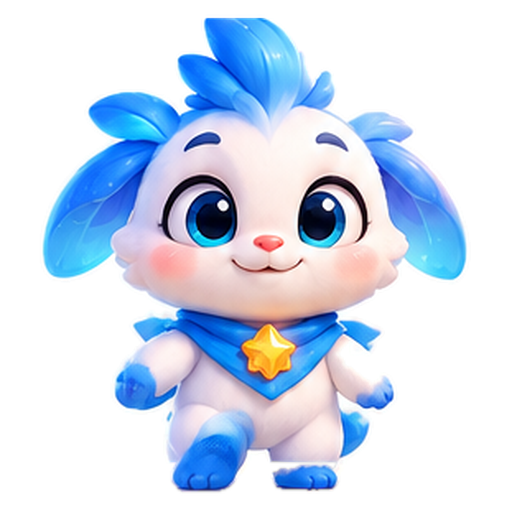
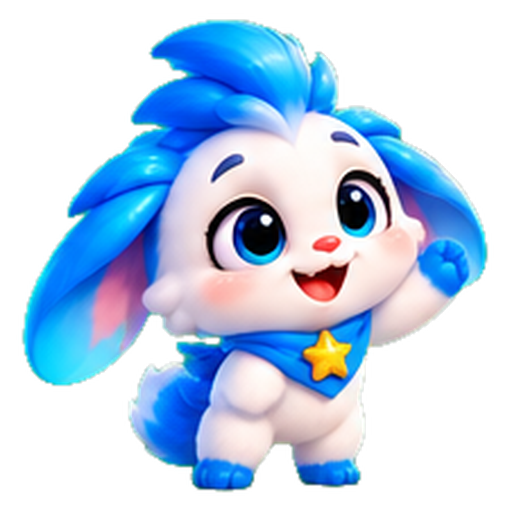
Drop Quest: Bobo poses from the green-screen sheet
Fourteen clean poses keyed from the green sheet: idle, cheer, scared, cry,
wave, thumbs, think, worried, sleep, heart, crystal, gem, star, run, plus
head tokens. Each game moment picks its pose: board mascot (idle/cheer/
scared/cry), menu (wave, thumbs when tapped), result screen (cheer or star,
cry on loss), dialogs (sleep without lives, heart for the gift, star for
missions), tutorial (think), story pages (run, worried, crystal, wave).

Claude-Session: https://claude.ai/code/session_01P9PJwx89JgEmzy7Z8UgfRU

diff --git a/Assets/SugarDrop/Scripts/Game/SugarDropGame.cs b/Assets/SugarDrop/Scripts/Game/SugarDropGame.cs
@@ -346,6 +346,7 @@ namespace SugarDrop
             string message = SugarLoc.F("Stele: {0}/30", stars) + "  ·  " + SugarLoc.F("+{0} monede", coins)
                 + "\n" + SugarLoc.T("+1 rachetă la start") + (boosters ? "  ·  " + SugarLoc.T("+1 la fiecare ajutor") : "")
                 + "\n" + SugarLoc.F("Urmează: {0}", SugarLoc.T(ChapterTheme.For(chapter + 1).Name));
+            dialog.NextBobo = BoboPose.Star;
             dialog.Show(SugarLoc.F("Capitolul {0} terminat!", chapter + 1), message,
                 new DialogButton(SugarLoc.T("SUPER!"), positive, null));
         }
@@ -378,6 +379,7 @@ namespace SugarDrop
             UiThemeColors(out Color positive, out Color ad, out Color panel);
             if (!SugarDaily.GiftAvailable)
             {
+                dialog.NextBobo = BoboPose.Love;
                 dialog.Show(SugarLoc.T("Cadou zilnic"), null,
                     () => SugarLoc.F("Următorul cadou în {0}", Clock(DailyRules.UntilTomorrow)),
                     new DialogButton(SugarLoc.T("ÎNCHIDE"), panel, null));
@@ -387,6 +389,7 @@ namespace SugarDrop
             DailyGift gift = DailyRules.GiftFor(day);
             var buttons = new List<DialogButton> { new(SugarLoc.T("REVENDICĂ"), positive, () => ClaimGift(1)) };
             if (gift.Coins > 0) buttons.Add(new DialogButton(SugarLoc.T("x2 MONEDE (reclamă)"), ad, () => SugarUi.RewardedAd("daily_gift", () => ClaimGift(2))));
+            dialog.NextBobo = BoboPose.Love;
             dialog.Show(SugarLoc.T("Cadou zilnic"), SugarLoc.F("Ziua {0} din 7", day) + "\n" + GiftText(gift, 1), buttons.ToArray());
         }
 
@@ -399,6 +402,7 @@ namespace SugarDrop
             if (Audio != null) Audio.Play(SugarSound.Win);
             if (Vfx != null) Vfx.Confetti(Vector3.zero, 9.2f, 10.5f);
             UiThemeColors(out Color positive, out Color ad, out Color panel);
+            dialog.NextBobo = BoboPose.Love;
             dialog.Show(SugarLoc.T("Cadou zilnic"), GiftText(gift, multiplier), new DialogButton(SugarLoc.T("SUPER!"), positive, null));
         }
 
@@ -435,6 +439,7 @@ namespace SugarDrop
                     buttons.Add(new DialogButton(text + "\n" + SugarDaily.Progress(i) + "/" + mission.Target + "  ·  +" + mission.Reward, panel, null, false));
             }
             buttons.Add(new DialogButton(SugarLoc.T("ÎNCHIDE"), QuarryEmpire.UiRoot.Theme.AccentColor, null));
+            dialog.NextBobo = BoboPose.Star;
             dialog.Show(SugarLoc.T("Misiuni zilnice"), null,
                 () => SugarLoc.F("Toate trei: +{0} bonus", DailyRules.AllMissionsBonus) + "\n" + SugarLoc.F("Misiuni noi în {0}", Clock(DailyRules.UntilTomorrow)),
                 buttons.ToArray());
@@ -493,6 +498,7 @@ namespace SugarDrop
         private void AskRating()
         {
             UiThemeColors(out Color positive, out Color ad, out Color panel);
+            dialog.NextBobo = BoboPose.Wave;
             dialog.Show(SugarLoc.T("Îți place Drop Quest?"), SugarLoc.T("Bobo e curios ce părere ai!"),
                 new DialogButton(SugarLoc.T("DA, ÎMI PLACE!"), positive, AskReview),
                 new DialogButton(SugarLoc.T("NU PREA"), panel, () => SetRateState(2)));
@@ -569,6 +575,7 @@ namespace SugarDrop
         private void OnAdUnavailable()
         {
             UiThemeColors(out Color positive, out Color ad, out Color panel);
+            dialog.NextBobo = BoboPose.Worried;
             dialog.Show(SugarLoc.T("Nicio reclamă acum"), SugarLoc.T("Nu e nicio reclamă disponibilă. Verifică internetul și încearcă din nou puțin mai târziu."),
                 new DialogButton(SugarLoc.T("ÎNCHIDE"), panel, null));
         }
@@ -835,6 +842,7 @@ namespace SugarDrop
             string points = SugarSave.TotalScore.ToString("#,0", System.Globalization.CultureInfo.InvariantCulture).Replace(',', '.');
             string message = SugarLoc.F("Nivelul {0}  ·  {1} stele", Mathf.Max(1, Data.level), stars) + "\n"
                 + SugarLoc.F("{0} puncte  ·  {1} capitole", points, Data.chaptersRewarded);
+            dialog.NextBobo = BoboPose.Wave;
             dialog.Show(string.IsNullOrEmpty(Data.nickname) ? SugarLoc.T("Profil") : Data.nickname, message,
                 new DialogButton(SugarLoc.T("SCHIMBĂ NICKNAME-UL"), panel, () => welcome.Show(false, SetNickname)),
                 new DialogButton(SugarLoc.T("Garderoba lui Bobo"), Palette.Tile(2), ShowWardrobe),
@@ -845,6 +853,7 @@ namespace SugarDrop
         private void ShowNoLives()
         {
             UiThemeColors(out Color positive, out Color ad, out Color panel);
+            dialog.NextBobo = BoboPose.Sleep;
             dialog.Show(SugarLoc.T("Fără vieți!"), null, () =>
                 {
                     SugarSave.UpdateLives();
@@ -1648,6 +1657,7 @@ namespace SugarDrop
                     if (Data.coins < boosterPrice)
                     {
                         if (Audio != null) Audio.Play(SugarSound.Invalid);
+                        dialog.NextBobo = BoboPose.Worried;
                         dialog.Show(SugarLoc.T("Nu ai destule monede"), null,
                             new DialogButton(SugarLoc.T("GRATIS (reclamă)"), ad, () => SugarUi.RewardedAd("booster", () => Grant(booster))),
                             new DialogButton(SugarLoc.T("ÎNCHIDE"), panel, null));

diff --git a/Assets/SugarDrop/Scripts/Visual/BoboArt.cs b/Assets/SugarDrop/Scripts/Visual/BoboArt.cs
@@ -4,26 +4,53 @@ using UnityEngine.UI;
 
 namespace SugarDrop
 {
+    /// <summary>Ipostazele lui Bobo pictat (câte o imagine pentru fiecare moment din joc).</summary>
+    public enum BoboPose
+    {
+        Idle, Happy, Scared, Sad, Wave, Thumbs, Think, Worried, Sleep, Love, Crystal, Gem, Star, Run,
+    }
+
     /// <summary>
-    /// Bobo pictat (Resources/Art/bobo.png, bobohappy.png, boboscared.png): blănosul alb cu urechi-frunze albastre
-    /// și eșarfă cu stea. Imaginile sunt pătrate, cu personajul centrat și picioarele aproape de marginea de jos.
-    /// Când lipsesc, jocul îl desenează pe Bobo din cod, ca înainte.
+    /// Bobo pictat (Resources/Art/bobo*.png): blănosul alb cu urechi-frunze albastre și eșarfă cu stea. Imaginile
+    /// sunt pătrate, cu personajul centrat și picioarele aproape de marginea de jos. O ipostază care lipsește
+    /// folosește imaginea de bază (bobo.png); fără ea, jocul îl desenează pe Bobo din cod, ca înainte.
     /// </summary>
     public static class BoboArt
     {
         public static Sprite Idle => ArtLibrary.Find("bobo");
-        public static Sprite Happy => ArtLibrary.Find("bobohappy") ?? Idle;
-        public static Sprite Scared => ArtLibrary.Find("boboscared") ?? Idle;
+        public static Sprite Happy => Get(BoboPose.Happy);
+        public static Sprite Scared => Get(BoboPose.Scared);
         public static bool Available => Idle != null;
+
+        /// <summary>Numele imaginii fiecărei ipostaze (în Resources/Art).</summary>
+        public static string Key(BoboPose pose) => pose switch
+        {
+            BoboPose.Happy => "bobohappy",
+            BoboPose.Scared => "boboscared",
+            BoboPose.Sad => "bobosad",
+            BoboPose.Wave => "bobowave",
+            BoboPose.Thumbs => "bobothumbs",
+            BoboPose.Think => "bobothink",
+            BoboPose.Worried => "boboworried",
+            BoboPose.Sleep => "bobosleep",
+            BoboPose.Love => "bobolove",
+            BoboPose.Crystal => "bobocrystal",
+            BoboPose.Gem => "bobogem",
+            BoboPose.Star => "bobostar",
+            BoboPose.Run => "boborun",
+            _ => "bobo",
+        };
+
+        public static Sprite Get(BoboPose pose) => ArtLibrary.Find(Key(pose)) ?? Idle;
 
         /// <summary>Partea din imagine (de jos în sus) unde stau capul (pălăriile) și ochii (ochelarii).</summary>
         public const float HeadTop = 0.84f;
         public const float EyeLine = 0.55f;
 
         /// <summary>Bobo într-un dreptunghi de interfață: o singură imagine, picioarele jos, pe mijloc.</summary>
-        public static Image AddTo(RectTransform parent, float size, Vector2 bottomCenter)
+        public static Image AddTo(RectTransform parent, float size, Vector2 bottomCenter, BoboPose pose = BoboPose.Idle)
         {
-            Image image = UiFactory.CreateImage("BoboArt", parent, Idle, Color.white);
+            Image image = UiFactory.CreateImage("BoboArt", parent, Get(pose), Color.white);
             image.preserveAspect = true;
             image.raycastTarget = false;
             UiFactory.Place(image.rectTransform, new Vector2(0.5f, 0f), new Vector2(0.5f, 0f), bottomCenter, new Vector2(size, size));

diff --git a/Assets/SugarDrop/Scripts/UI/StoryPanel.cs b/Assets/SugarDrop/Scripts/UI/StoryPanel.cs
@@ -473,7 +473,7 @@ namespace SugarDrop
             int look = BossDefinition.For((chapter + 1) * LevelConfig.ChapterSize, 22).Look;
             RectTransform villain = Actor(scene, SugarSprites.BossFace(look), Color.white, new Vector2(-80f, 600f), 300f);
             BoboView bobo = BoboView.Build(scene, 0.42f);
-            bobo.SetPose(2);
+            bobo.SetPose(BoboPose.Worried);
             Image flash = UiFactory.CreateImage("Flash", scene, UiFactory.WhiteSprite, new Color(1f, 1f, 1f, 0f));
             flash.preserveAspect = false;
             UiFactory.Stretch(flash.rectTransform);
@@ -495,7 +495,9 @@ namespace SugarDrop
             RectTransform glow = Actor(scene, SugarSprites.SoftDot, new Color(1f, 0.95f, 0.6f, 0.7f), new Vector2(0f, 200f), 300f);
             RectTransform shard = Actor(scene, SugarSprites.Gem, Color.white, new Vector2(0f, 200f), 130f);
             BoboView bobo = BoboView.Build(scene, 0.6f);
-            bobo.SetPose(1);
+            bobo.SetPose(BoboPose.Crystal);
+            // Bobo pictat ține deja cristalul în brațe: bucata care plutește ar fi în plus.
+            if (BoboArt.Available) shard.gameObject.SetActive(false);
             Action<float> confetti = Floaters(scene, SugarSprites.Sparkle,
                 new[] { Palette.TileLight(0), Palette.TileLight(1), Palette.TileLight(2), Palette.TileLight(3), Palette.TileLight(4) }, 14, -0.9f, 34f);
             return t =>
@@ -519,6 +521,7 @@ namespace SugarDrop
             Actor(scene, SugarSprites.Leaf, new Color(0.3f, 0.7f, 0.4f), new Vector2(-360f, 250f), 120f);
             Actor(scene, SugarSprites.Leaf, new Color(0.4f, 0.8f, 0.5f), new Vector2(380f, 200f), 100f).localRotation = Quaternion.Euler(0f, 0f, 140f);
             BoboView bobo = BoboView.Build(scene, 0.55f);
+            bobo.SetPose(BoboPose.Run);
             Action<float> sparkles = Floaters(scene, SugarSprites.Sparkle, new[] { Color.white, new Color(1f, 0.9f, 0.5f) }, 6, 0.5f, 34f);
             return t =>
             {
@@ -544,7 +547,7 @@ namespace SugarDrop
             var ring = new List<RectTransform>();
             for (int i = 0; i < 8; i++) ring.Add(Actor(scene, ProceduralSprites.Star, new Color(1f, 0.85f, 0.35f), Vector2.zero, 60f));
             BoboView bobo = BoboView.Build(scene, 0.62f);
-            bobo.SetPose(1);
+            bobo.SetPose(BoboPose.Wave);
             Action<float> confetti = Floaters(scene, SugarSprites.Sparkle,
                 new[] { Palette.TileLight(0), Palette.TileLight(1), Palette.TileLight(2), Palette.TileLight(3), Palette.TileLight(4) }, 14, -0.9f, 34f);
             return t =>

diff --git a/Assets/SugarDrop/Scripts/UI/DialogPanel.cs b/Assets/SugarDrop/Scripts/UI/DialogPanel.cs
@@ -39,6 +39,10 @@ namespace SugarDrop
         private UiLabel _message;
         private readonly List<GameObject> _buttons = new();
         private Func<string> _liveMessage;
+        private Image _bobo;
+
+        /// <summary>Ipostaza lui Bobo pentru următorul Show (apare în colțul ferestrei); se consumă la Show.</summary>
+        public BoboPose? NextBobo { get; set; }
         private float _refresh;
 
         public bool IsOpen => _root != null && _root.activeSelf;
@@ -55,6 +59,14 @@ namespace SugarDrop
             UiFactory.Place(_title.RectTransform, new Vector2(0.5f, 1f), new Vector2(0.5f, 1f), new Vector2(0f, -40f), new Vector2(Width - 60f, 100f));
             _message = UiFactory.CreateText("Message", _box, "", 40, TextAnchor.MiddleCenter, Color.Lerp(theme.TextDarkColor, Color.white, 0.3f));
             UiFactory.Place(_message.RectTransform, new Vector2(0.5f, 1f), new Vector2(0.5f, 1f), new Vector2(0f, -150f), new Vector2(Width - 80f, 110f));
+            if (BoboArt.Available)
+            {
+                // Bobo „se sprijină” de colțul din stânga-sus al ferestrei.
+                _bobo = UiFactory.CreateImage("Bobo", _box, BoboArt.Idle, Color.white);
+                _bobo.raycastTarget = false;
+                UiFactory.Place(_bobo.rectTransform, new Vector2(0f, 1f), new Vector2(0.5f, 0.5f), new Vector2(30f, 10f), new Vector2(210f, 210f));
+                _bobo.gameObject.SetActive(false);
+            }
             _root.SetActive(false);
         }
 
@@ -63,6 +75,13 @@ namespace SugarDrop
         public void Show(string title, string message, Func<string> liveMessage, params DialogButton[] buttons)
         {
             DismissAction = null;
+            if (_bobo != null)
+            {
+                _bobo.gameObject.SetActive(NextBobo.HasValue);
+                if (NextBobo.HasValue) _bobo.sprite = BoboArt.Get(NextBobo.Value);
+                _bobo.transform.SetAsLastSibling();
+            }
+            NextBobo = null;
             foreach (GameObject button in _buttons) Destroy(button);
             _buttons.Clear();
 

diff --git a/Assets/SugarDrop/Scripts/UI/ResultPanel.cs b/Assets/SugarDrop/Scripts/UI/ResultPanel.cs
@@ -39,6 +39,8 @@ namespace SugarDrop
         private LevelCompleteAnimator _animator;
         /// <summary>Ce i-a mai lipsit jucătorului (iconița obiectivului și câte au rămas), pe ecranul de pierdere.</summary>
         private readonly Image[] _missingIcons = new Image[3];
+        /// <summary>Bobo pictat lângă cutie: sărbătorește la victorie, plânge la pierdere (null fără imagini).</summary>
+        private Image _bobo;
         private readonly UiLabel[] _missingCounts = new UiLabel[3];
         private float _lockedUntil;
 
@@ -80,6 +82,8 @@ namespace SugarDrop
             UiFactory.Place(_score.RectTransform, new Vector2(0.5f, 1f), new Vector2(0.5f, 1f), new Vector2(0f, -44f), new Vector2(600f, 92f));
 
             // Recompensa: plăcuța crem cu moneda și câte s-au câștigat.
+            if (BoboArt.Available)
+                _bobo = BoboArt.AddTo(_box, 250f, new Vector2(-Width * 0.5f + 40f, 360f), BoboPose.Happy);
             _reward = SugarUi.Card("Reward", _box, out Image rewardFace, QuestStyle.SurfaceTint);
             UiFactory.Place(_reward, new Vector2(0.5f, 1f), new Vector2(0.5f, 1f), new Vector2(0f, -506f), new Vector2(300f, 130f));
             Image coin = UiFactory.CreateImage("CoinIcon", rewardFace.transform, ProceduralSprites.Coin, Color.white);
@@ -152,6 +156,7 @@ namespace SugarDrop
             SetRound(onHome, onReplay, onMap);
             _lockedUntil = Time.unscaledTime + 0.35f; // nu „prinde” atingerea care a încheiat nivelul
             _root.SetActive(true);
+            if (_bobo != null) _bobo.sprite = BoboArt.Get(stars == 3 ? BoboPose.Star : BoboPose.Happy);
             _animator.PlayWin(stars, coins, "+{0}");
         }
 
@@ -176,6 +181,7 @@ namespace SugarDrop
             SetRound(onHome, null, onMap);
             _lockedUntil = Time.unscaledTime + 0.35f; // nu „prinde” atingerea care a încheiat nivelul
             _root.SetActive(true);
+            if (_bobo != null) _bobo.sprite = BoboArt.Get(BoboPose.Sad);
             _animator.PlayLose();
         }
 

diff --git a/Assets/SugarDrop/Scripts/UI/MainMenu.cs b/Assets/SugarDrop/Scripts/UI/MainMenu.cs
@@ -155,6 +155,7 @@ namespace SugarDrop
         private void BuildBobo()
         {
             _bobo = BoboView.Build(_root.transform, 0.7f);
+            _bobo.SetPose(BoboPose.Wave);
             UiFactory.Place(_bobo.Root, new Vector2(0.5f, 0.5f), new Vector2(0.5f, 0.5f), new Vector2(0f, BoboY), _bobo.Root.sizeDelta);
             // Toată silueta lui Bobo se poate atinge.
             var hit = _bobo.Root.gameObject.AddComponent<Image>();
@@ -297,7 +298,7 @@ namespace SugarDrop
 
         private void PokeBobo()
         {
-            _bobo.SetPose(1);
+            _bobo.SetPose(BoboPose.Thumbs);
             _happyUntil = Time.unscaledTime + 1.2f;
             _jumpVelocity = 1400f;
             _blinkT = 0f;
@@ -365,7 +366,7 @@ namespace SugarDrop
             if (_happyUntil > 0f && time >= _happyUntil)
             {
                 _happyUntil = 0f;
-                _bobo.SetPose(0);
+                _bobo.SetPose(BoboPose.Wave);
             }
 
             if (time >= _nextLine)

diff --git a/Assets/SugarDrop/Scripts/Visual/ArtLibrary.cs b/Assets/SugarDrop/Scripts/Visual/ArtLibrary.cs
@@ -19,7 +19,8 @@ namespace SugarDrop
             "piece0", "piece1", "piece2", "piece3", "piece4", "pearl",
             "sky0", "sky1", "sky2", "sky3", "sky4", "sky5", "sky6", "sky7", "sky8", "sky9", "bggradient",
             "crate", "chocolate", "ice", "chain", "pot", "flame", "bomb", "rocket", "rainbow",
-            "bobo", "bobohappy", "boboscared", "bobotoken", "bobotokenscared", "boss0", "boss1", "boss2", "boss3", "boss4", "boss5", "boss6",
+            "bobo", "bobohappy", "boboscared", "bobosad", "bobowave", "bobothumbs", "bobothink", "boboworried",
+            "bobosleep", "bobolove", "bobocrystal", "bobogem", "bobostar", "boborun", "bobotoken", "bobotokenscared", "boss0", "boss1", "boss2", "boss3", "boss4", "boss5", "boss6",
             "gift", "trophy", "lifeheart", "flower", "portal", "logo",
         };
 

diff --git a/Assets/SugarDrop/Scripts/UI/BoboView.cs b/Assets/SugarDrop/Scripts/UI/BoboView.cs
@@ -64,11 +64,11 @@ namespace SugarDrop
 
         public void SetCostume(Costume costume) => SetCostume(costume, Scale);
 
-        /// <summary>Ipostaza imaginii pictate: 0 liniștit, 1 bucuros, 2 speriat (fără imagini nu face nimic).</summary>
-        public void SetPose(int pose)
+        /// <summary>Ipostaza imaginii pictate (fără imagini nu face nimic).</summary>
+        public void SetPose(BoboPose pose)
         {
             if (_art == null) return;
-            _art.sprite = pose == 1 ? BoboArt.Happy : pose == 2 ? BoboArt.Scared : BoboArt.Idle;
+            _art.sprite = BoboArt.Get(pose);
         }
 
         /// <summary>Pune costumul: pălăriile și fundița pe cap (în locul cireșei), ochelarii pe ochi.</summary>

diff --git a/Assets/SugarDrop/Scripts/UI/TutorialCoach.cs b/Assets/SugarDrop/Scripts/UI/TutorialCoach.cs
@@ -42,7 +42,7 @@ namespace SugarDrop
 
             _bobo = UiFactory.CreateRect("Bobo", _card);
             UiFactory.Place(_bobo, new Vector2(0f, 0.5f), new Vector2(0.5f, 0.5f), new Vector2(95f, 0f), new Vector2(150f, 150f));
-            if (BoboArt.Available) BoboArt.AddTo(_bobo, 170f, new Vector2(0f, -10f));
+            if (BoboArt.Available) BoboArt.AddTo(_bobo, 170f, new Vector2(0f, -10f), BoboPose.Think);
             else BuildDrawnBobo();
 
             _text = UiFactory.CreateText("Text", _card, "", 40, TextAnchor.MiddleLeft, theme.TextDarkColor);

diff --git a/Assets/SugarDrop/Scripts/Visual/Mascot.cs b/Assets/SugarDrop/Scripts/Visual/Mascot.cs
@@ -159,7 +159,8 @@ namespace SugarDrop
         {
             if (_art != null)
             {
-                _art.sprite = worried ? BoboArt.Scared : _mood == Mood.Happy ? BoboArt.Happy : BoboArt.Idle;
+                _art.sprite = _mood == Mood.Sad ? BoboArt.Get(BoboPose.Sad)
+                    : worried ? BoboArt.Scared : _mood == Mood.Happy ? BoboArt.Happy : BoboArt.Idle;
                 return;
             }
             _mouth.sprite = worried ? SugarSprites.Frown : SugarSprites.Smile;

diff --git a/Assets/SugarDrop/Scripts/UI/MapScreen.cs b/Assets/SugarDrop/Scripts/UI/MapScreen.cs
@@ -204,7 +204,7 @@ namespace SugarDrop
             shadow.preserveAspect = false;
             if (BoboArt.Available)
             {
-                BoboArt.AddTo(_marker, 150f, new Vector2(0f, -4f));
+                BoboArt.AddTo(_marker, 150f, new Vector2(0f, -4f), BoboPose.Wave);
                 return;
             }
             Image cup = UiFactory.CreateImage("Cup", _marker, SugarSprites.CupWrapper, Color.white);

diff --git a/Assets/SugarDrop/Scripts/UI/WelcomePanel.cs b/Assets/SugarDrop/Scripts/UI/WelcomePanel.cs
@@ -111,7 +111,7 @@ namespace SugarDrop
         {
             if (BoboArt.Available)
             {
-                BoboArt.AddTo(parent, 270f, new Vector2(0f, 0f));
+                BoboArt.AddTo(parent, 270f, new Vector2(0f, 0f), BoboPose.Wave);
                 return;
             }
             Image cup = UiFactory.CreateImage("Cup", parent, SugarSprites.CupWrapper, Color.white);
